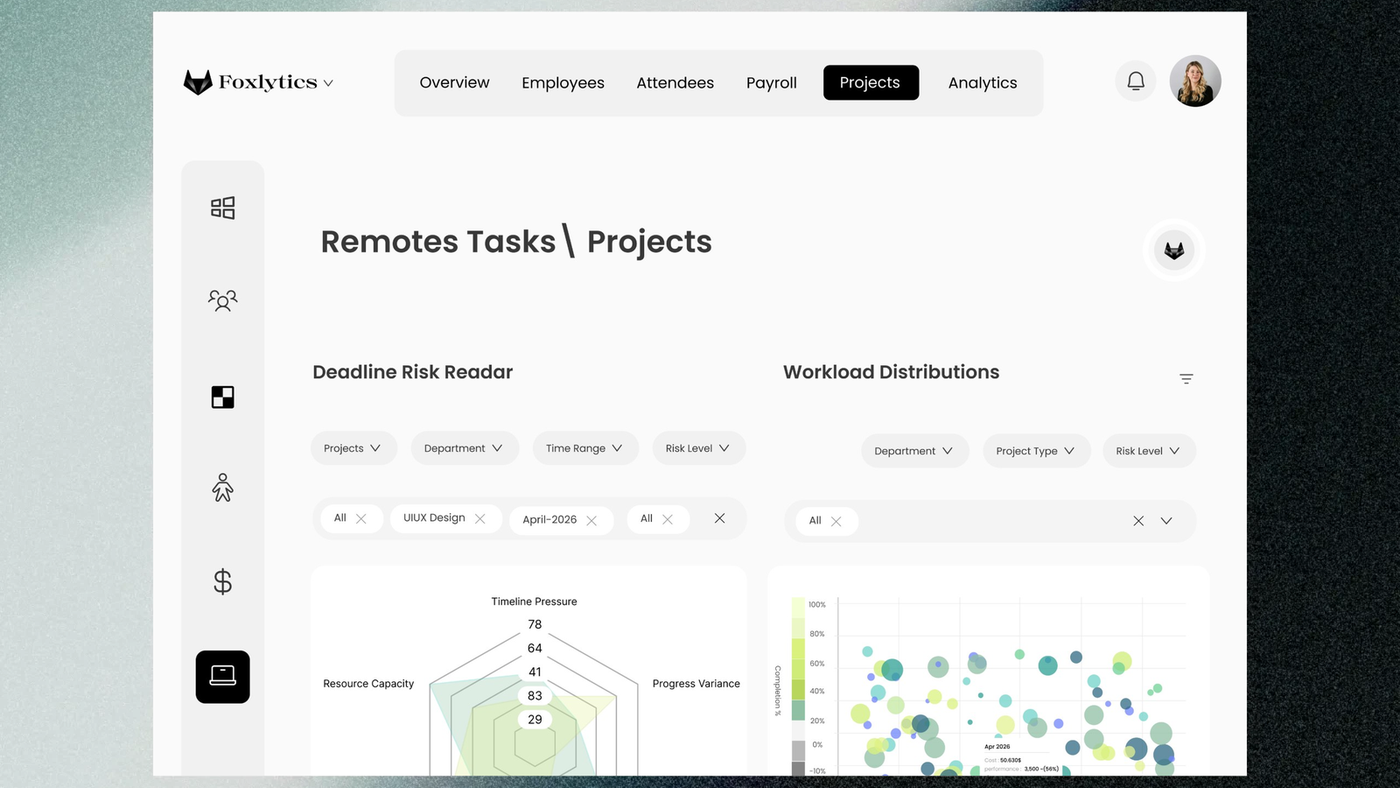
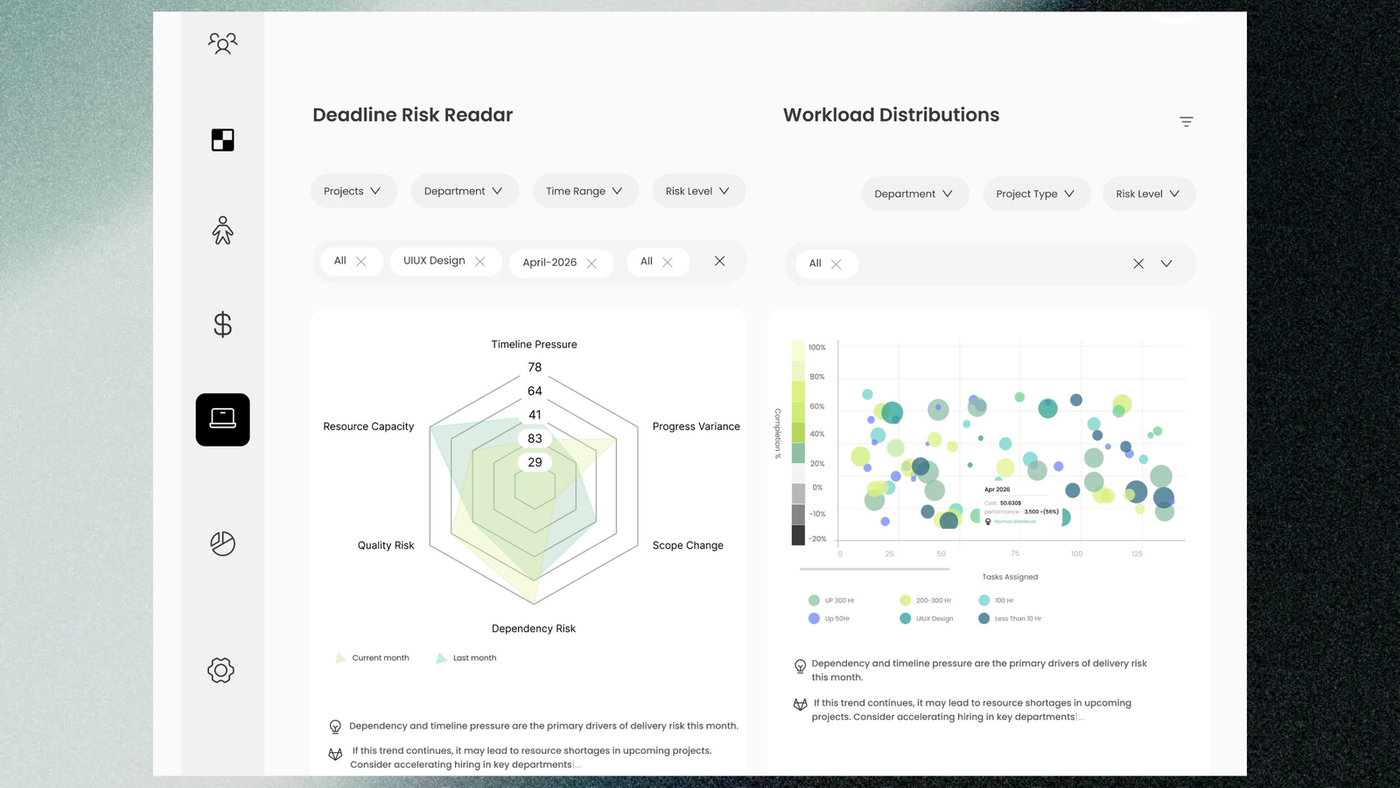
Mia card: crop the payroll and projects pages so the charts show in full
Claude-Session: https://claude.ai/code/session_01FdYAnoP1AuAPuCnLWf7gdc

diff --git a/behance-cover/mockups/set11.py b/behance-cover/mockups/set11.py
@@ -4,7 +4,7 @@ import numpy as np
 from PIL import Image
 I = '/tmp/claude-0/-home-user-claude-Ai-website-1/fd49522e-f0ff-52ed-b6c7-08cca43cc4fd/images/'
 CARD = (175, 163.5, 1425, 1036)          # measured white card edges
-SCREENS = {'brand': ('141.jpg', None), 'payroll': ('130.jpg', 0), 'projects': ('131.jpg', 0)}   # dashboards from the top: nav bar shows, like a page
+SCREENS = {'brand': ('141.jpg', None), 'payroll': ('130.jpg', 255), 'projects': ('131.jpg', 470)}   # bands chosen so the whole charts show
 base = Image.open(I + '162.webp').convert('RGB')
 for scr, (df, top) in SCREENS.items():
     d = Image.open(I + df).convert('RGB'); r = (CARD[2] - CARD[0]) / (CARD[3] - CARD[1])
